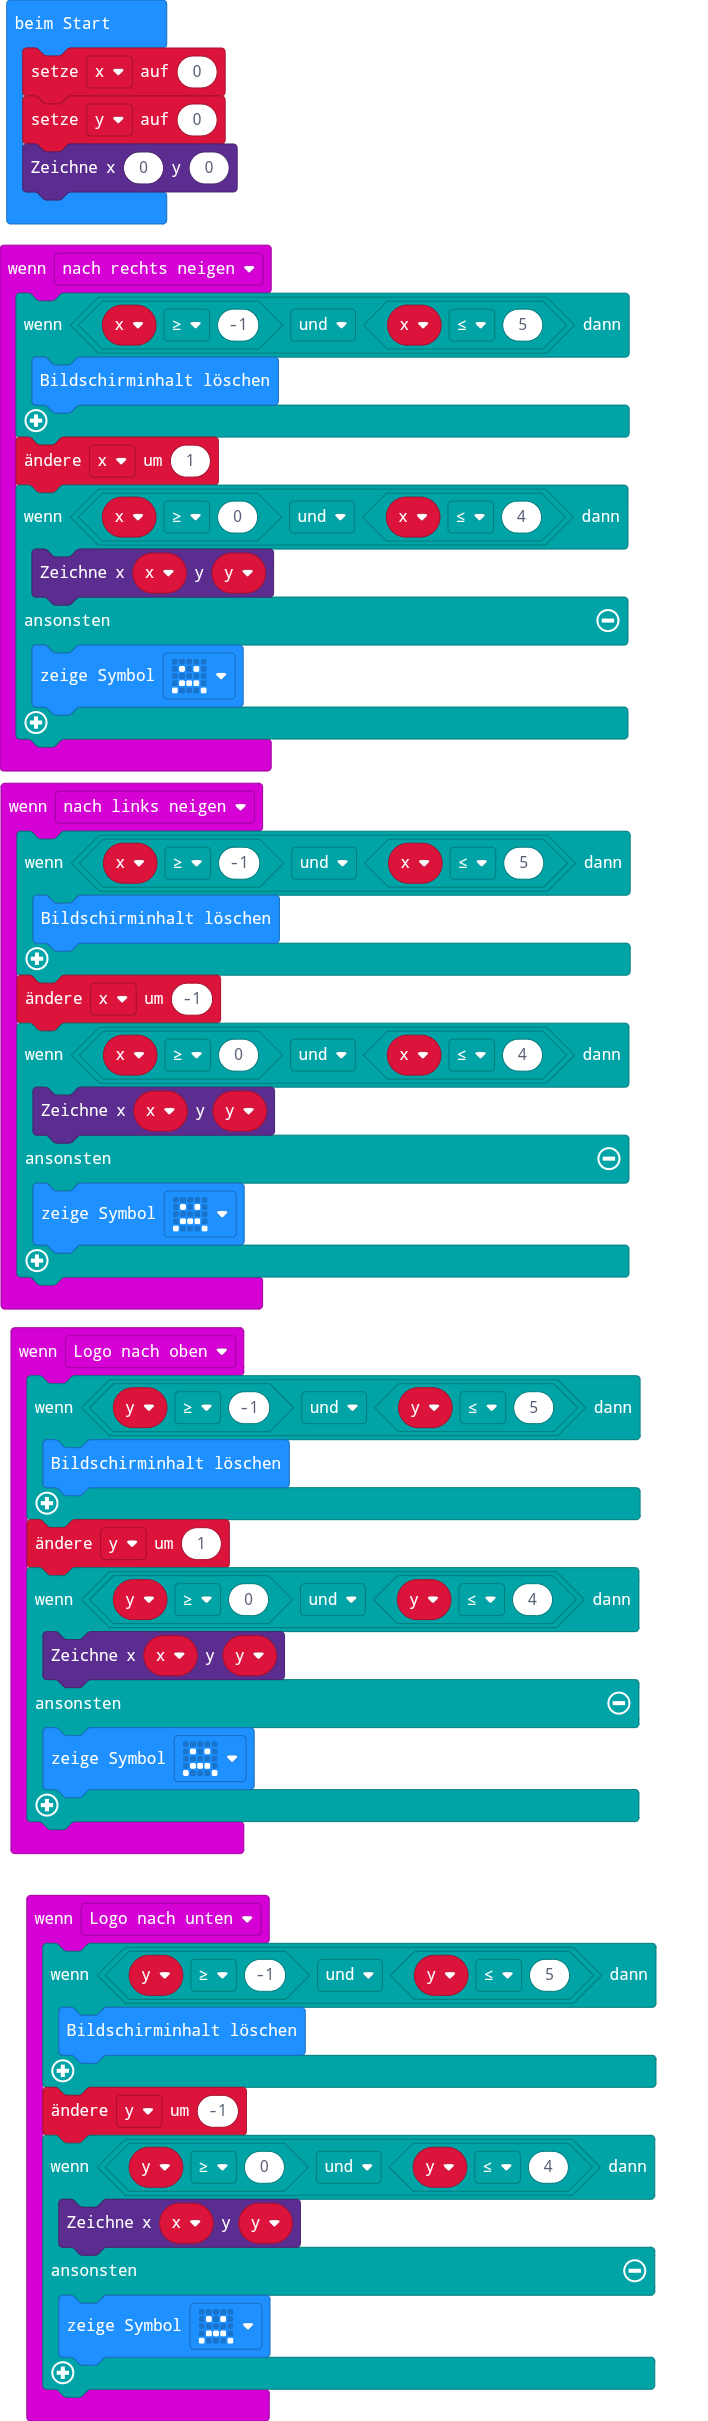
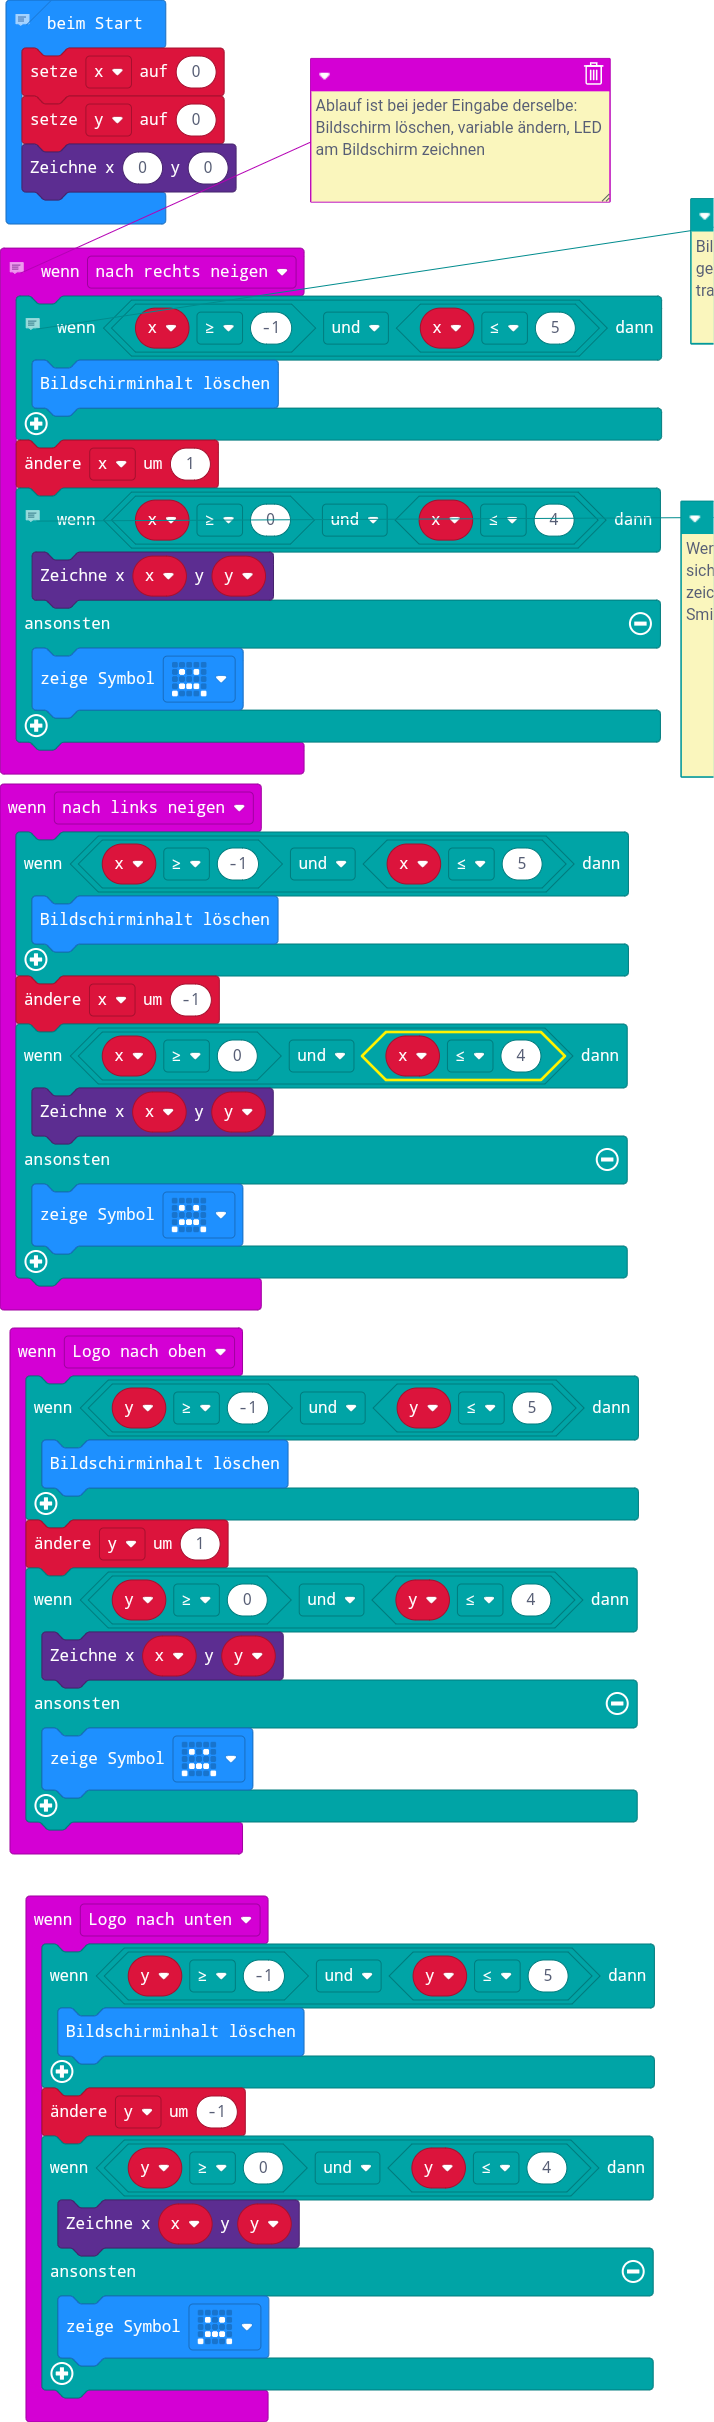
Kommentare hinzugegpgt

diff --git a/main.ts b/main.ts
@@ -1,8 +1,11 @@
+// Ablauf ist bei jeder Eingabe derselbe: Bildschirm löschen, variable ändern, LED am Bildschirm zeichnen
 input.onGesture(Gesture.TiltRight, function () {
+    // Bildschirm soll nicht gelöscht werden, wenn trauriges Smiley sichtbar ist
     if (x >= -1 && x <= 5) {
         basic.clearScreen()
     }
     x += 1
+    // Wenn Cursor innerhalb des sichtbaren Bereich, dann zeichne LED ansonst trauriges Smiley
     if (x >= 0 && x <= 4) {
         led.plot(x, y)
     } else {
@@ -42,6 +45,7 @@ input.onGesture(Gesture.LogoDown, function () {
         basic.showIcon(IconNames.Sad)
     }
 })
+// Startpunkt definieren
 let y = 0
 let x = 0
 x = 0
